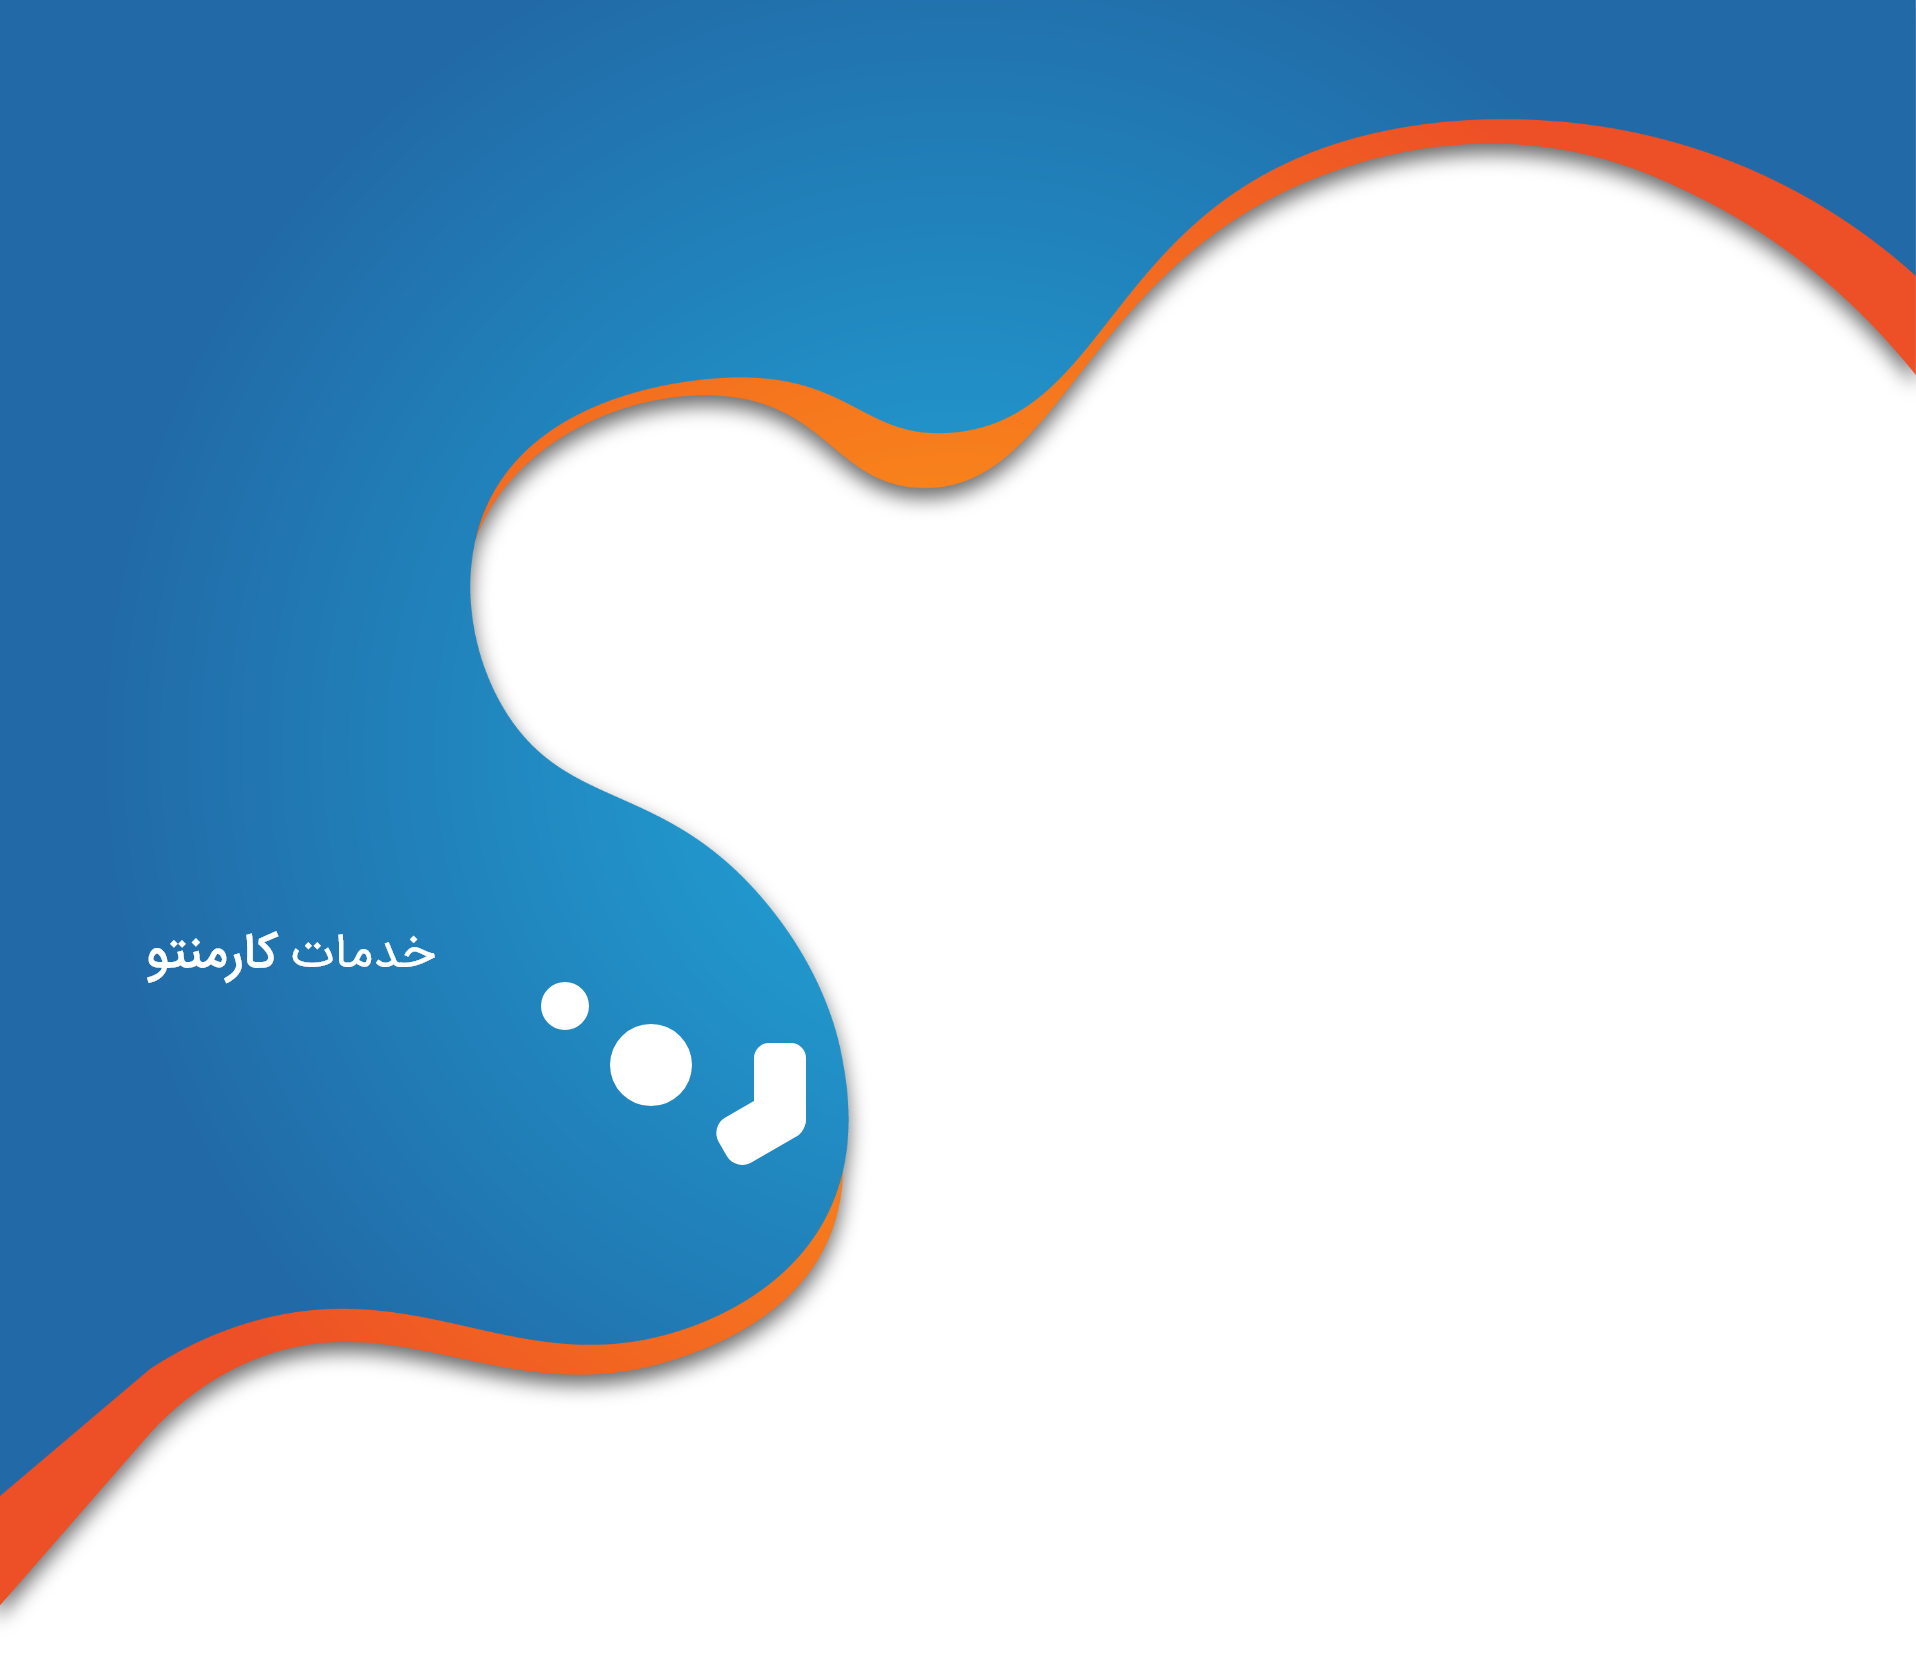
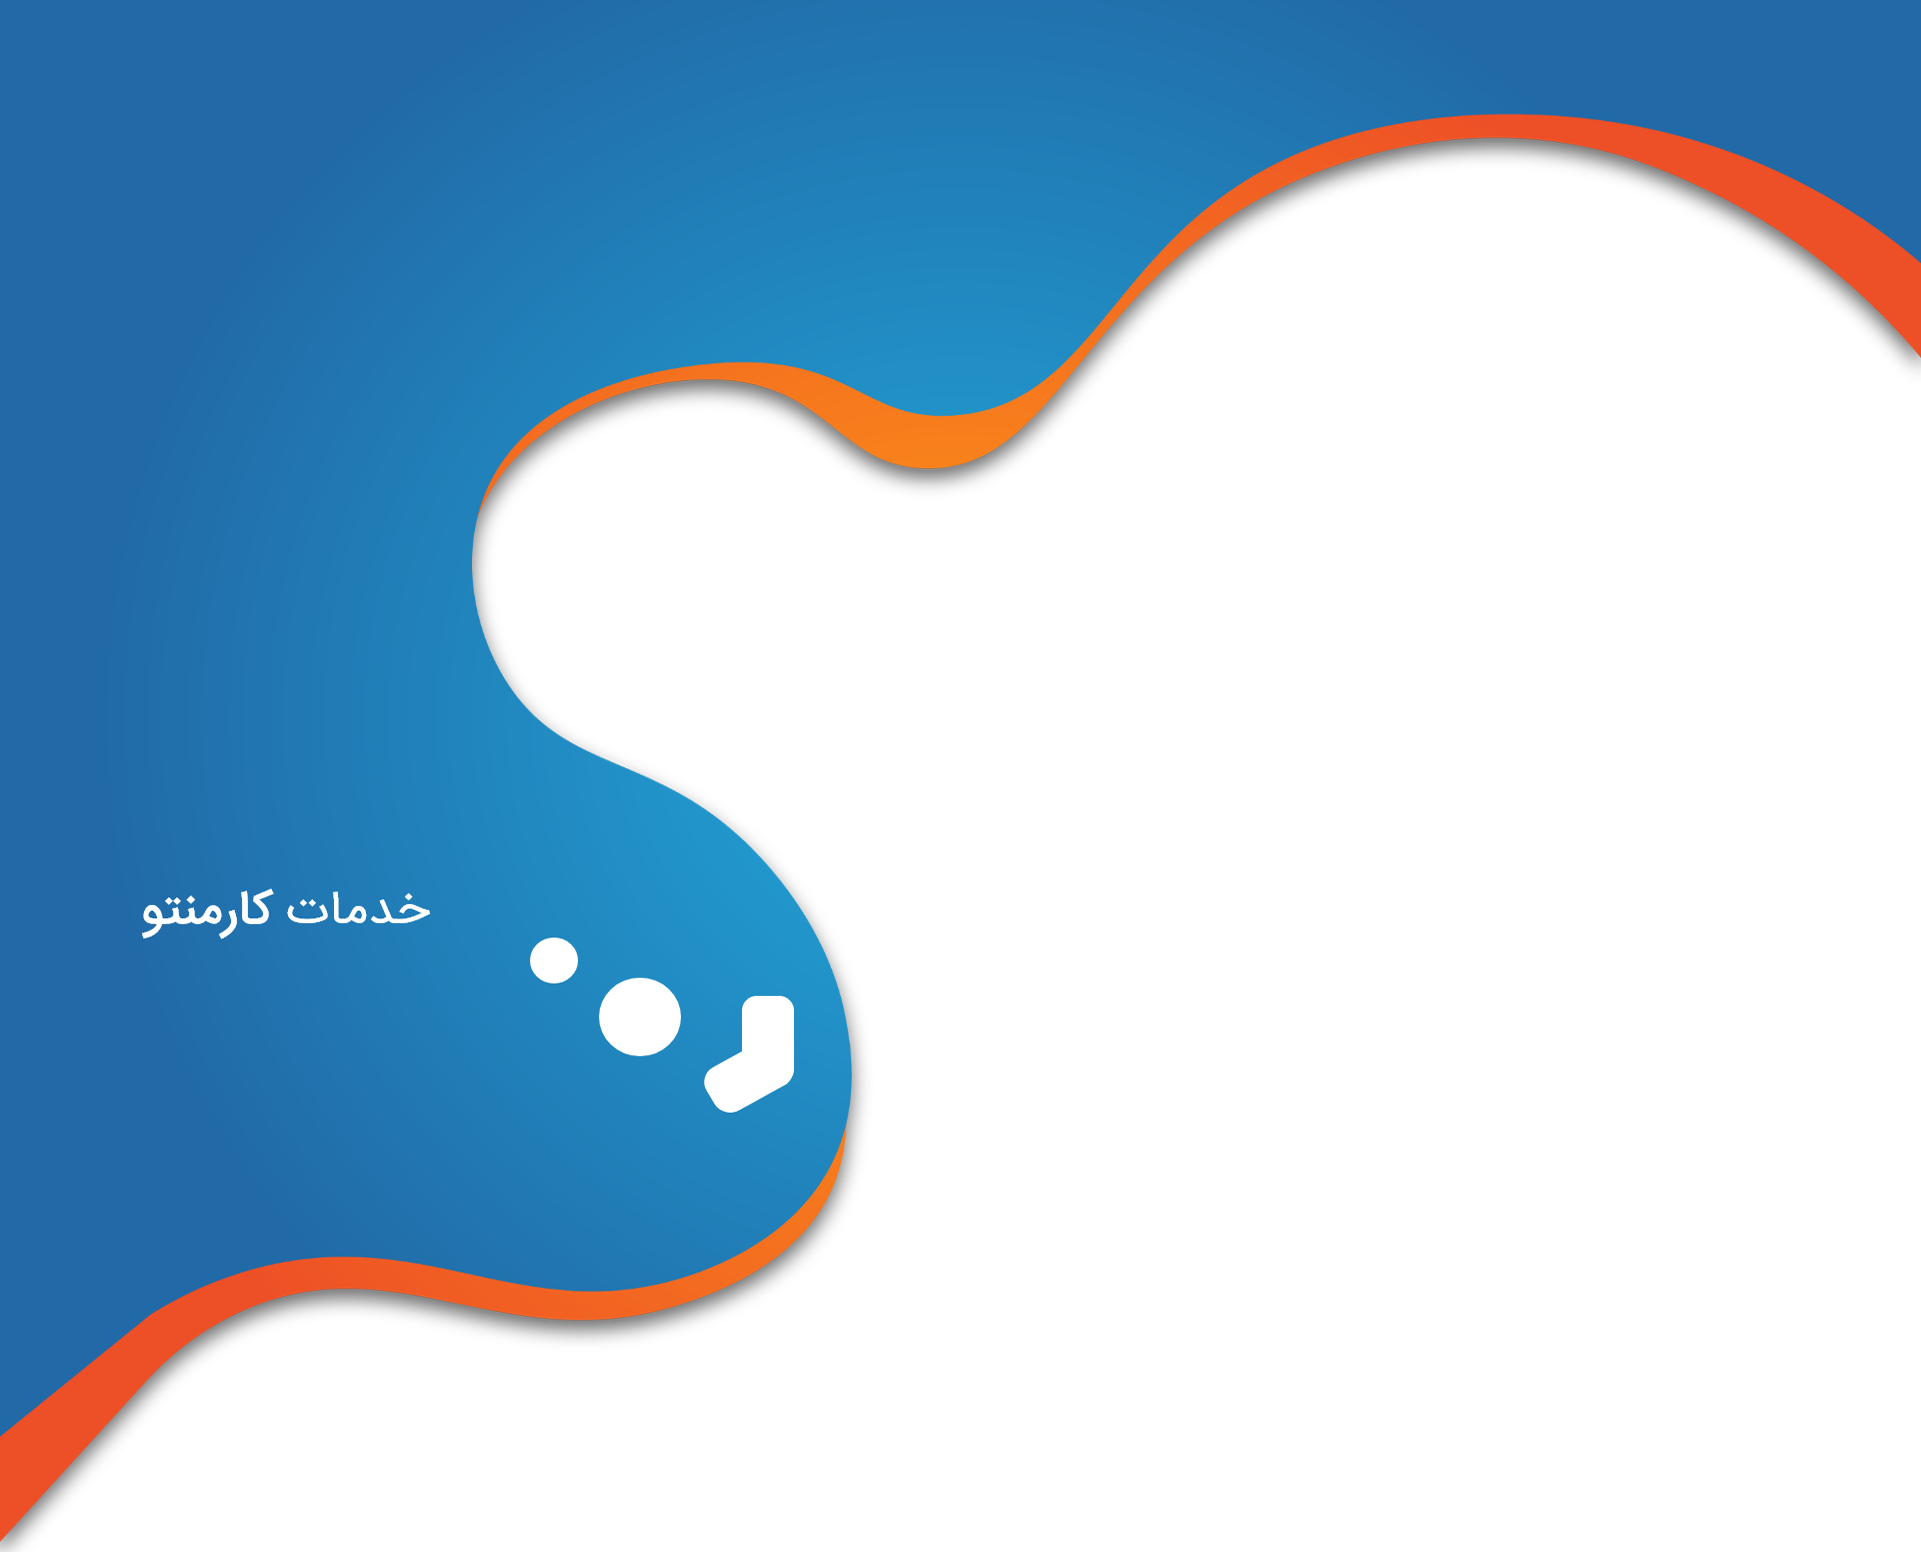
fix bug and optimize, commited by jaffar

diff --git a/sass/layout/_overlay.scss b/sass/layout/_overlay.scss
@@ -12,6 +12,7 @@
 
   &__slider {
     margin-top: 10rem;
+
     @include respond(tab-port) {
       margin-top: 23rem;
     }
@@ -26,6 +27,7 @@
       width: 70%;
       margin: 0 auto;
     }
+
     @include respond(phone) {
       width: 90%;
     }
@@ -51,15 +53,16 @@
   }
 
   &__intro {
-    margin: 0rem auto 0 3rem;
+    margin: 0 auto 0 10rem;
     width: 30rem;
 
     @include flexColCenter;
+
     @include respond(big-desktop) {
       width: auto;
     }
 
-    & > svg {
+    &>svg {
       width: 100%;
       height: 11.5rem;
 
@@ -69,8 +72,9 @@
       }
     }
 
-    & > p {
+    &>p {
       margin-top: 0.5rem;
+
       @include respond(big-desktop) {
         font-size: 3rem;
       }
@@ -83,7 +87,7 @@
       align-items: center;
       padding: 1rem 0rem;
 
-      & > a > svg {
+      &>a>svg {
         width: 7rem;
         height: 7rem;
       }
@@ -91,7 +95,7 @@
       @include respond(big-desktop) {
         padding: 1rem 1.5rem;
 
-        & > a > svg {
+        &>a>svg {
           width: unset;
           height: unset;
         }
@@ -114,25 +118,30 @@
 
 @media only screen and (min-width: 1295px) {
   .overlay {
+    padding-top: 10rem;
+    &__slider {
+      margin-right: 18rem;
+    }
     &__categories {
       margin-top: 6rem;
     }
     &__services {
-      margin-top: 14rem;
+      margin-top: 25rem;
     }
   }
 }
 
-@media only screen and (min-width: 1244px) {
-  .overlay {
-    background-size: cover;
-  }
-}
+// @media only screen and (min-width: 1244px) {
+//   .overlay {
+//     background-size: cover;
+//   }
+// }
 
 @media only screen and (max-width: 1240px) {
   .overlay {
     &__services {
       width: 75%;
+      margin-right: 5rem;
     }
   }
 }
@@ -143,10 +152,12 @@
       width: 100%;
       margin: 0;
     }
+
     &__warranty {
       margin-top: 5rem;
       width: 95%;
     }
+
     &__new-warranty {
       margin: 0 auto;
       margin-top: 20rem;

diff --git a/index.css b/index.css
@@ -2670,7 +2670,7 @@ section {
 }
 
 .overlay__intro {
-  margin: 0rem auto 0 3rem;
+  margin: 0 auto 0 10rem;
   width: 30rem;
   display: -webkit-box;
   display: -ms-flexbox;
@@ -2757,23 +2757,24 @@ section {
 }
 
 @media only screen and (min-width: 1295px) {
+  .overlay {
+    padding-top: 10rem;
+  }
+  .overlay__slider {
+    margin-right: 18rem;
+  }
   .overlay__categories {
     margin-top: 6rem;
   }
   .overlay__services {
-    margin-top: 14rem;
-  }
-}
-
-@media only screen and (min-width: 1244px) {
-  .overlay {
-    background-size: cover;
+    margin-top: 25rem;
   }
 }
 
 @media only screen and (max-width: 1240px) {
   .overlay__services {
     width: 75%;
+    margin-right: 5rem;
   }
 }
 
